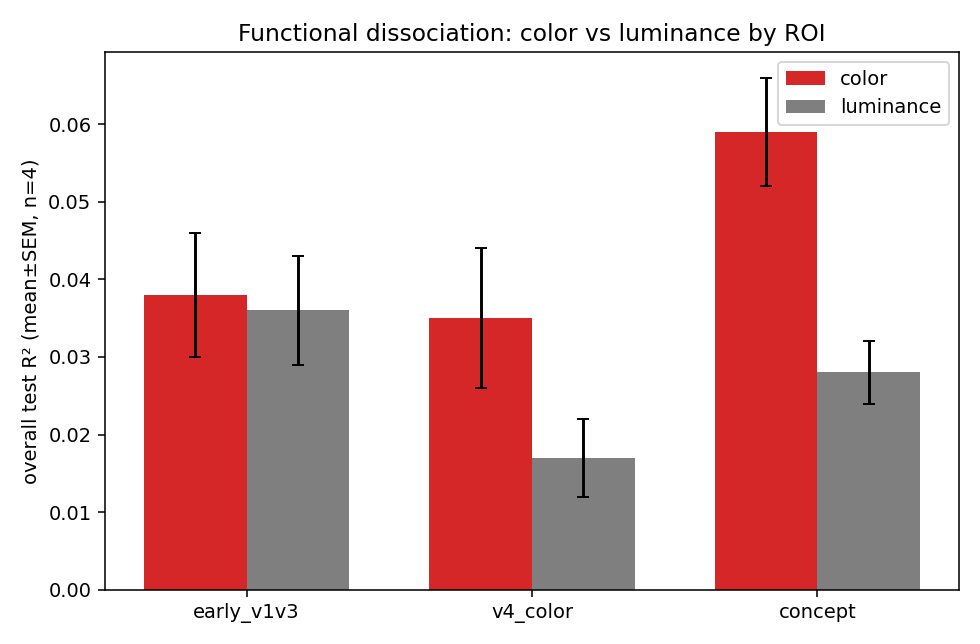
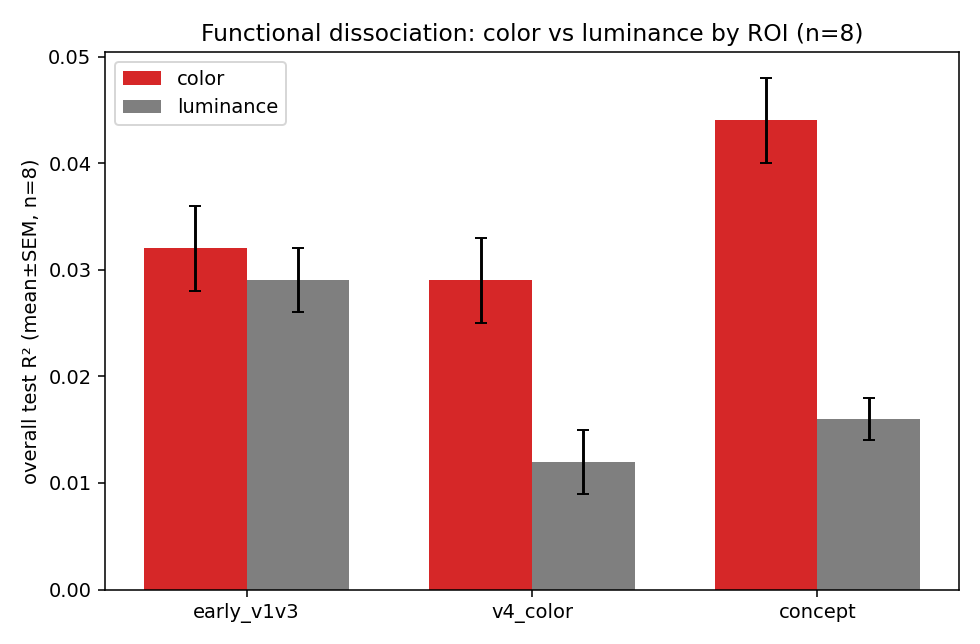
Extend to all 8 subjects; rebuild figures and REPORT for full cohort

diff --git a/REPORT.md b/REPORT.md
@@ -24,7 +24,9 @@ The most compact summary is one figure:
 
 Higher visual cortex (`concept`) is strongly color-biased; early visual
 (`early_v1v3`) is balanced across color and luminance; V4 is color-biased but
-weak on both raw measures. All effects replicate across four subjects.
+weak on both raw measures. All effects replicate across **all 8 NSD subjects**,
+and both directions of the dissociation are statistically reliable (the SEM bars
+don't overlap where it counts).
 
 ## Background
 
@@ -77,8 +79,10 @@ ROI to the smallest one's size (V4's 687), decode, and average over 10 random
 draws. Only after this is the comparison about color information *per unit of
 cortex*.
 
-**4. Replication.** I repeated the matched analysis across the four subjects who
-completed all 40 sessions (1, 2, 5, 7) and summarized as mean ± SEM.
+**4. Replication.** I repeated the matched analysis across subjects — first the
+four who completed all 40 sessions (1, 2, 5, 7), then all 8 (adding the
+reduced-session subjects 3, 4, 6, 8) — and summarized as mean ± SEM. The pattern
+held, and the added subjects tightened the error bars.
 
 **5. A luminance control.** The color results hinted that early visual's strength
 was really *luminance* (it decoded "black" far better than any other region). So I
@@ -92,45 +96,53 @@ it.)
 
 ## Results
 
-### Color, matched and replicated (n = 4)
+All numbers below are across **all 8 NSD subjects** (mean ± SEM), each ROI
+subsampled to 687 voxels with alpha tuned per fit. Adding the four
+reduced-session subjects (3, 4, 6, 8) to the four complete ones lowers the
+absolute R² a little and tightens the error bars — the pattern is unchanged.
+
+### Color, matched and replicated (n = 8)
 
 | ROI | overall R² | top-1 |
 |---|---|---|
-| concept (higher visual) | **0.059 ± 0.007** | 0.256 ± 0.008 |
-| early_v1v3 | 0.038 ± 0.008 | 0.258 ± 0.009 |
-| v4_color | 0.035 ± 0.009 | 0.240 ± 0.009 |
+| concept (higher visual) | **0.044 ± 0.004** | 0.237 ± 0.004 |
+| early_v1v3 | 0.032 ± 0.004 | 0.247 ± 0.004 |
+| v4_color | 0.029 ± 0.004 | 0.233 ± 0.004 |
 
-All ROIs decode the dominant color at ~0.25–0.26 vs 0.091 chance (~2.8×). With
+All ROIs decode the dominant color well above the 0.091 chance baseline. With
 size and regularization controlled, **higher visual cortex decodes color best** —
-a reliable gap across subjects.
+a gap that is reliable across the full cohort (0.044 vs 0.032, well beyond the
+combined SEM).
 
 ![color by ROI](figures/fig1_color_by_roi.png)
 
 The per-color pattern is the interesting part. Higher visual cortex leads on the
-chromatic, object-bound colors (brown 0.16, blue 0.13, green 0.09, orange 0.08).
-Early visual is the standout for **black** (0.113 vs V4's 0.026) and ties for
-white — the luminance extremes. Rare colors (purple, pink) are unreliable
-everywhere: too few training examples.
+chromatic, object-bound colors (brown 0.13, blue 0.10, orange 0.07, green 0.06).
+Early visual is the standout for **black** (0.080 vs V4's 0.002 — essentially
+zero) and leads on white too — the luminance extremes. Rare colors (purple, pink)
+are unreliable everywhere: too few training examples.
 
-### Luminance: the dissociation (n = 4)
+### Luminance: the dissociation (n = 8)
 
 | ROI | overall luminance R² |
 |---|---|
-| early_v1v3 | **0.036 ± 0.007** |
-| concept | 0.028 ± 0.004 |
-| v4_color | 0.017 ± 0.005 |
+| early_v1v3 | **0.029 ± 0.003** |
+| concept | 0.016 ± 0.002 |
+| v4_color | 0.012 ± 0.003 |
 
-For brightness the order **flips**: early visual leads and V4 drops to last
-(early reliably beats V4). And within each region, the contrast is the real story:
-higher visual and V4 are ~2× color-biased (they care about chromatic color far
-more than brightness), while **early visual is balanced** across the two.
+For brightness the order **flips**: early visual leads, V4 drops to last, and at
+n = 8 early's lead over higher visual is now reliable (0.029 vs 0.016, ~3.6× the
+combined SEM — it was only marginal at n = 4). Within each region, the contrast
+is the real story: higher visual and V4 are ~2× color-biased (they care about
+chromatic color far more than brightness), while **early visual is balanced**
+across the two.
 
 ![luminance by ROI](figures/fig2_luminance_by_roi.png)
 
 The luminance signal is concentrated in the **dark bins** (L0–L2), where early
-visual dominates (L1 = 0.123, the single strongest luminance value anywhere) and
-V4 is near zero (L0 = 0.011). This corroborates the "black" color result from an
-independent target.
+visual dominates (L1 = 0.099, the single strongest luminance value anywhere) and
+V4 is near zero or negative (L0 = −0.006). This corroborates the "black" color
+result from an independent target.
 
 ## Interpretation
 
@@ -154,8 +166,9 @@ The pattern maps cleanly onto known visual neuroscience:
 - **Correlational.** "Decodable from region X" ≠ "represented or used by X."
 - **Raw-pixel targets.** Color/luminance histograms of the stimulus don't capture
   *perceptual* color (constancy, categories), which is likely where V4 would shine.
-- **Single dataset, n = 4.** Error bars are across subjects for the group claims
-  and across voxel draws for the matching; both are small, but this is one dataset.
+- **Single dataset.** Effects replicate across all 8 subjects (error bars are
+  across-subject SEM), but this is still one dataset with one preprocessing
+  pipeline; the effect sizes are modest (R² ~0.01–0.04).
 - **Rare colors unreliable.** Purple/pink have too few examples; their negative R²
   is a scarcity artifact, not signal.
 - **`concept` is a coarse pool.** `higher_vis` lumps all higher visual cortex; it
@@ -166,14 +179,14 @@ The pattern maps cleanly onto known visual neuroscience:
 
 ```bash
 pip install -e ".[color]"
-python download_data.py --subjects 1 2 5 7 --images
+python download_data.py --subjects 1 2 3 4 5 6 7 8 --images
 python -m brain2vision.color_targets --images data/coco_images_224_float16.hdf5 --out data/color_targets.npy
 python -m brain2vision.luminance_targets --images data/coco_images_224_float16.hdf5 --out data/luminance_targets.npy
-# color, matched + replicated across subjects
-python -m brain2vision.replicate_subjects --subjects 1 2 5 7 --target data/color_targets.npy --out roi_color_4subj.png
+# color, matched + replicated across all 8 subjects
+python -m brain2vision.replicate_subjects --subjects 1 2 3 4 5 6 7 8 --target data/color_targets.npy --out roi_color_8subj.png
 # luminance, same pipeline
-python -m brain2vision.replicate_subjects --subjects 1 2 5 7 --target data/luminance_targets.npy \
-    --labels L0,L1,L2,L3,L4,L5,L6,L7,L8,L9,L10 --out roi_luminance_4subj.png
+python -m brain2vision.replicate_subjects --subjects 1 2 3 4 5 6 7 8 --target data/luminance_targets.npy \
+    --labels L0,L1,L2,L3,L4,L5,L6,L7,L8,L9,L10 --out roi_luminance_8subj.png
 ```
 
 ## Data & credit

diff --git a/README.md b/README.md
@@ -16,7 +16,7 @@ see [`DATA_TERMS.md`](DATA_TERMS.md).
 
 Full write-up with methods and figures: **[`REPORT.md`](REPORT.md)**.
 
-Short version — a replicated (n=4 subjects), confound-controlled functional
+Short version — a replicated (all 8 subjects), confound-controlled functional
 dissociation in how visual cortex represents color vs brightness:
 
 ![color vs luminance dissociation](figures/fig3_dissociation.png)
@@ -49,7 +49,7 @@ By downloading you accept the NSD and COCO terms (see `DATA_TERMS.md`).
 
 ```bash
 python download_data.py --subjects 1          # small files + one subject's betas
-# later: python download_data.py --subjects 1 2 5 7
+# later: python download_data.py --subjects 1 2 3 4 5 6 7 8
 # optional images for targets: add --images  (~22 GB)
 ```
 
@@ -66,15 +66,15 @@ python -m brain2vision.luminance_targets --images data/coco_images_224_float16.h
 # 3) single-subject decode (default ROI = V4; RidgeCV-tuned)
 python -m brain2vision.color_decode --subj 1 --color-targets data/color_targets.npy
 
-# 4) the real comparison: voxel-matched, across subjects (color, then luminance)
-python -m brain2vision.replicate_subjects --subjects 1 2 5 7 \
-    --target data/color_targets.npy --out roi_color_4subj.png
-python -m brain2vision.replicate_subjects --subjects 1 2 5 7 \
+# 4) the real comparison: voxel-matched, across all 8 subjects (color, then luminance)
+python -m brain2vision.replicate_subjects --subjects 1 2 3 4 5 6 7 8 \
+    --target data/color_targets.npy --out roi_color_8subj.png
+python -m brain2vision.replicate_subjects --subjects 1 2 3 4 5 6 7 8 \
     --target data/luminance_targets.npy --labels L0,L1,L2,L3,L4,L5,L6,L7,L8,L9,L10 \
-    --out roi_luminance_4subj.png
+    --out roi_luminance_8subj.png
 ```
 
-Result (4 subjects, matched to 687 voxels — see [`REPORT.md`](REPORT.md)):
+Result (8 subjects, matched to 687 voxels — see [`REPORT.md`](REPORT.md)):
 
 ![color decoding by ROI](figures/fig1_color_by_roi.png)
 

diff --git a/docs/methods.md b/docs/methods.md
@@ -204,9 +204,9 @@ step 3.
 python -m brain2vision.compare_rois --subj 1 --color-targets data/color_targets.npy --n-draws 10
 
 # across subjects, matched — color, then luminance (any target via --target/--labels)
-python -m brain2vision.replicate_subjects --subjects 1 2 5 7 --target data/color_targets.npy --out roi_color_4subj.png
-python -m brain2vision.replicate_subjects --subjects 1 2 5 7 --target data/luminance_targets.npy \
-    --labels L0,L1,L2,L3,L4,L5,L6,L7,L8,L9,L10 --out roi_luminance_4subj.png
+python -m brain2vision.replicate_subjects --subjects 1 2 3 4 5 6 7 8 --target data/color_targets.npy --out roi_color_8subj.png
+python -m brain2vision.replicate_subjects --subjects 1 2 3 4 5 6 7 8 --target data/luminance_targets.npy \
+    --labels L0,L1,L2,L3,L4,L5,L6,L7,L8,L9,L10 --out roi_luminance_8subj.png
 ```
 
 Each ROI is matched to 687 voxels; `replicate_subjects` reports per-subject and
@@ -214,7 +214,7 @@ across-subject (mean ± SEM) R²/top-1 and saves a figure plus a `_summary.npy`.
 
 ### Result
 
-The clean, replicated finding (4 subjects, matched to 687 voxels):
+The clean, replicated finding (all 8 subjects, matched to 687 voxels):
 
 ![color decoding by ROI](../figures/fig1_color_by_roi.png)
 